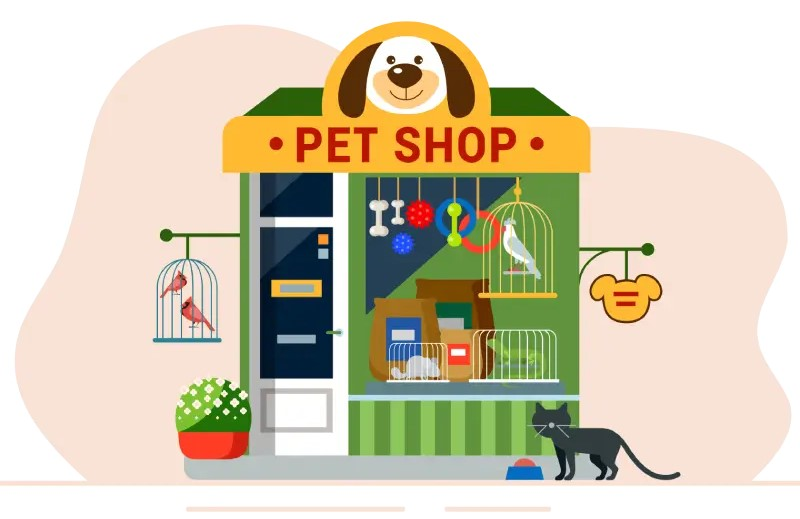
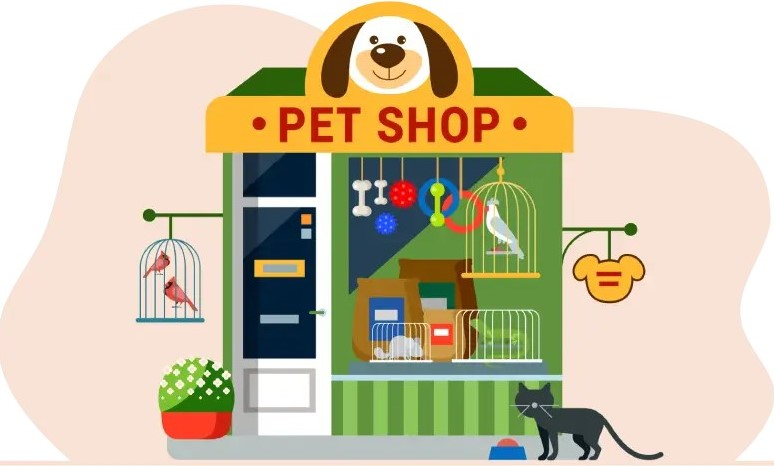
img para perros

diff --git a/integrador.html b/integrador.html
@@ -160,7 +160,7 @@
     </script>
     <div class="div1">
 
-        <img src="img\petshop.jpg" alt="imagen 1" width="150" height="100">
+        <img src="img\petshop.jpg" alt="imagen 1" width="135" height="85">
 
         home
         tienda
